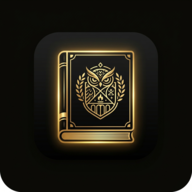
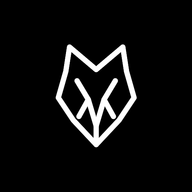
chore: rename app to "LockIn : Focus and Planner"
Update the application name across resources, metadata, and build settings for consistent branding.

Changed region(s): [[0.1562, 0.1562, 0.8438, 0.7812], [0.9062, 0.9062, 1.0, 1.0], [0.0, 0.9062, 0.0938, 1.0]]

diff --git a/app/src/main/assets/index.html b/app/src/main/assets/index.html
@@ -3,13 +3,13 @@
 <head>
     <meta charset="UTF-8">
     <meta name="viewport" content="width=device-width, initial-scale=1.0, maximum-scale=1.0, user-scalable=no">
-    <title>Lock In - Study Sanctuary</title>
+    <title>LockIn : Focus and Planner</title>
     
     <meta name="mobile-web-app-capable" content="yes">
     <meta name="apple-mobile-web-app-capable" content="yes">
     <meta name="apple-mobile-web-app-status-bar-style" content="black-translucent">
-    <meta name="apple-mobile-web-app-title" content="Lock In">
-    <meta name="application-name" content="Lock In">
+    <meta name="apple-mobile-web-app-title" content="LockIn : Focus and Planner">
+    <meta name="application-name" content="LockIn : Focus and Planner">
     <meta name="theme-color" content="#0A0908">
 
     <!-- Web App Manifest & PWA Icons for Chrome Standalone Installability -->
@@ -249,16 +249,18 @@
         
         <!-- HEADER -->
         <header class="glass-card p-3.5 flex items-center justify-between">
-            <div class="flex items-center gap-3">
-                <div class="w-9 h-9 rounded-xl bg-black/60 flex items-center justify-center border border-[var(--border)] shadow-inner">
-                    <svg class="w-5 h-5 text-amber-300" viewBox="0 0 100 100" fill="currentColor">
-                        <polygon points="25,42 48,50 28,58"/>
-                        <polygon points="75,42 52,50 72,58"/>
-                        <circle cx="50" cy="50" r="10" fill="none" stroke="currentColor" stroke-width="4"/>
+            <div class="flex items-center gap-2.5">
+                <div class="w-9 h-9 rounded-xl bg-black flex items-center justify-center border border-[var(--border)] shadow-inner">
+                    <svg class="w-6 h-6 text-white" viewBox="0 0 512 512" fill="none" stroke="currentColor" stroke-width="26" stroke-linecap="round" stroke-linejoin="round">
+                        <polyline points="256,185 185,125 175,190 155,260 195,320 256,385 317,320 357,260 337,190 327,125 256,185" />
+                        <polyline points="205,215 235,265 210,310" />
+                        <polyline points="307,215 277,265 302,310" />
+                        <polyline points="235,265 256,335 277,265" />
+                        <line x1="256" y1="335" x2="256" y2="385" />
                     </svg>
                 </div>
                 <div>
-                    <h1 class="font-serif-aesthetic font-bold text-base tracking-wider">Lock In</h1>
+                    <h1 class="font-serif-aesthetic font-bold text-xs sm:text-sm tracking-wide">LockIn : Focus and Planner</h1>
                     <p class="text-[10px] opacity-70" style="color: var(--subtext);">Deep Focus Sanctuary</p>
                 </div>
             </div>

diff --git a/index.html b/index.html
@@ -3,13 +3,13 @@
 <head>
     <meta charset="UTF-8">
     <meta name="viewport" content="width=device-width, initial-scale=1.0, maximum-scale=1.0, user-scalable=no">
-    <title>Lock In - Study Sanctuary</title>
+    <title>LockIn : Focus and Planner</title>
     
     <meta name="mobile-web-app-capable" content="yes">
     <meta name="apple-mobile-web-app-capable" content="yes">
     <meta name="apple-mobile-web-app-status-bar-style" content="black-translucent">
-    <meta name="apple-mobile-web-app-title" content="Lock In">
-    <meta name="application-name" content="Lock In">
+    <meta name="apple-mobile-web-app-title" content="LockIn : Focus and Planner">
+    <meta name="application-name" content="LockIn : Focus and Planner">
     <meta name="theme-color" content="#0A0908">
 
     <!-- Web App Manifest & PWA Icons for Chrome Standalone Installability -->
@@ -249,16 +249,18 @@
         
         <!-- HEADER -->
         <header class="glass-card p-3.5 flex items-center justify-between">
-            <div class="flex items-center gap-3">
-                <div class="w-9 h-9 rounded-xl bg-black/60 flex items-center justify-center border border-[var(--border)] shadow-inner">
-                    <svg class="w-5 h-5 text-amber-300" viewBox="0 0 100 100" fill="currentColor">
-                        <polygon points="25,42 48,50 28,58"/>
-                        <polygon points="75,42 52,50 72,58"/>
-                        <circle cx="50" cy="50" r="10" fill="none" stroke="currentColor" stroke-width="4"/>
+            <div class="flex items-center gap-2.5">
+                <div class="w-9 h-9 rounded-xl bg-black flex items-center justify-center border border-[var(--border)] shadow-inner">
+                    <svg class="w-6 h-6 text-white" viewBox="0 0 512 512" fill="none" stroke="currentColor" stroke-width="26" stroke-linecap="round" stroke-linejoin="round">
+                        <polyline points="256,185 185,125 175,190 155,260 195,320 256,385 317,320 357,260 337,190 327,125 256,185" />
+                        <polyline points="205,215 235,265 210,310" />
+                        <polyline points="307,215 277,265 302,310" />
+                        <polyline points="235,265 256,335 277,265" />
+                        <line x1="256" y1="335" x2="256" y2="385" />
                     </svg>
                 </div>
                 <div>
-                    <h1 class="font-serif-aesthetic font-bold text-base tracking-wider">Lock In</h1>
+                    <h1 class="font-serif-aesthetic font-bold text-xs sm:text-sm tracking-wide">LockIn : Focus and Planner</h1>
                     <p class="text-[10px] opacity-70" style="color: var(--subtext);">Deep Focus Sanctuary</p>
                 </div>
             </div>

diff --git a/app/src/main/java/com/example/ui/components/HeaderBar.kt b/app/src/main/java/com/example/ui/components/HeaderBar.kt
@@ -78,17 +78,17 @@ fun HeaderBar(
                 ) {
                     Image(
                         painter = painterResource(id = R.drawable.ic_launcher_fg),
-                        contentDescription = "Lock In Crest",
+                        contentDescription = "LockIn Logo",
                         modifier = Modifier.size(28.dp)
                     )
                 }
 
                 Column {
                     Text(
-                        text = "Lock In",
+                        text = "LockIn : Focus and Planner",
                         color = theme.textColor,
                         fontWeight = FontWeight.Bold,
-                        fontSize = 17.sp,
+                        fontSize = 15.sp,
                         letterSpacing = 0.5.sp
                     )
                     Text(

diff --git a/app/src/test/java/com/example/ExampleRobolectricTest.kt b/app/src/test/java/com/example/ExampleRobolectricTest.kt
@@ -16,6 +16,6 @@ class ExampleRobolectricTest {
   fun `read string from context`() {
     val context = ApplicationProvider.getApplicationContext<Context>()
     val appName = context.getString(R.string.app_name)
-    assertEquals("Lock In", appName)
+    assertEquals("LockIn : Focus and Planner", appName)
   }
 }
